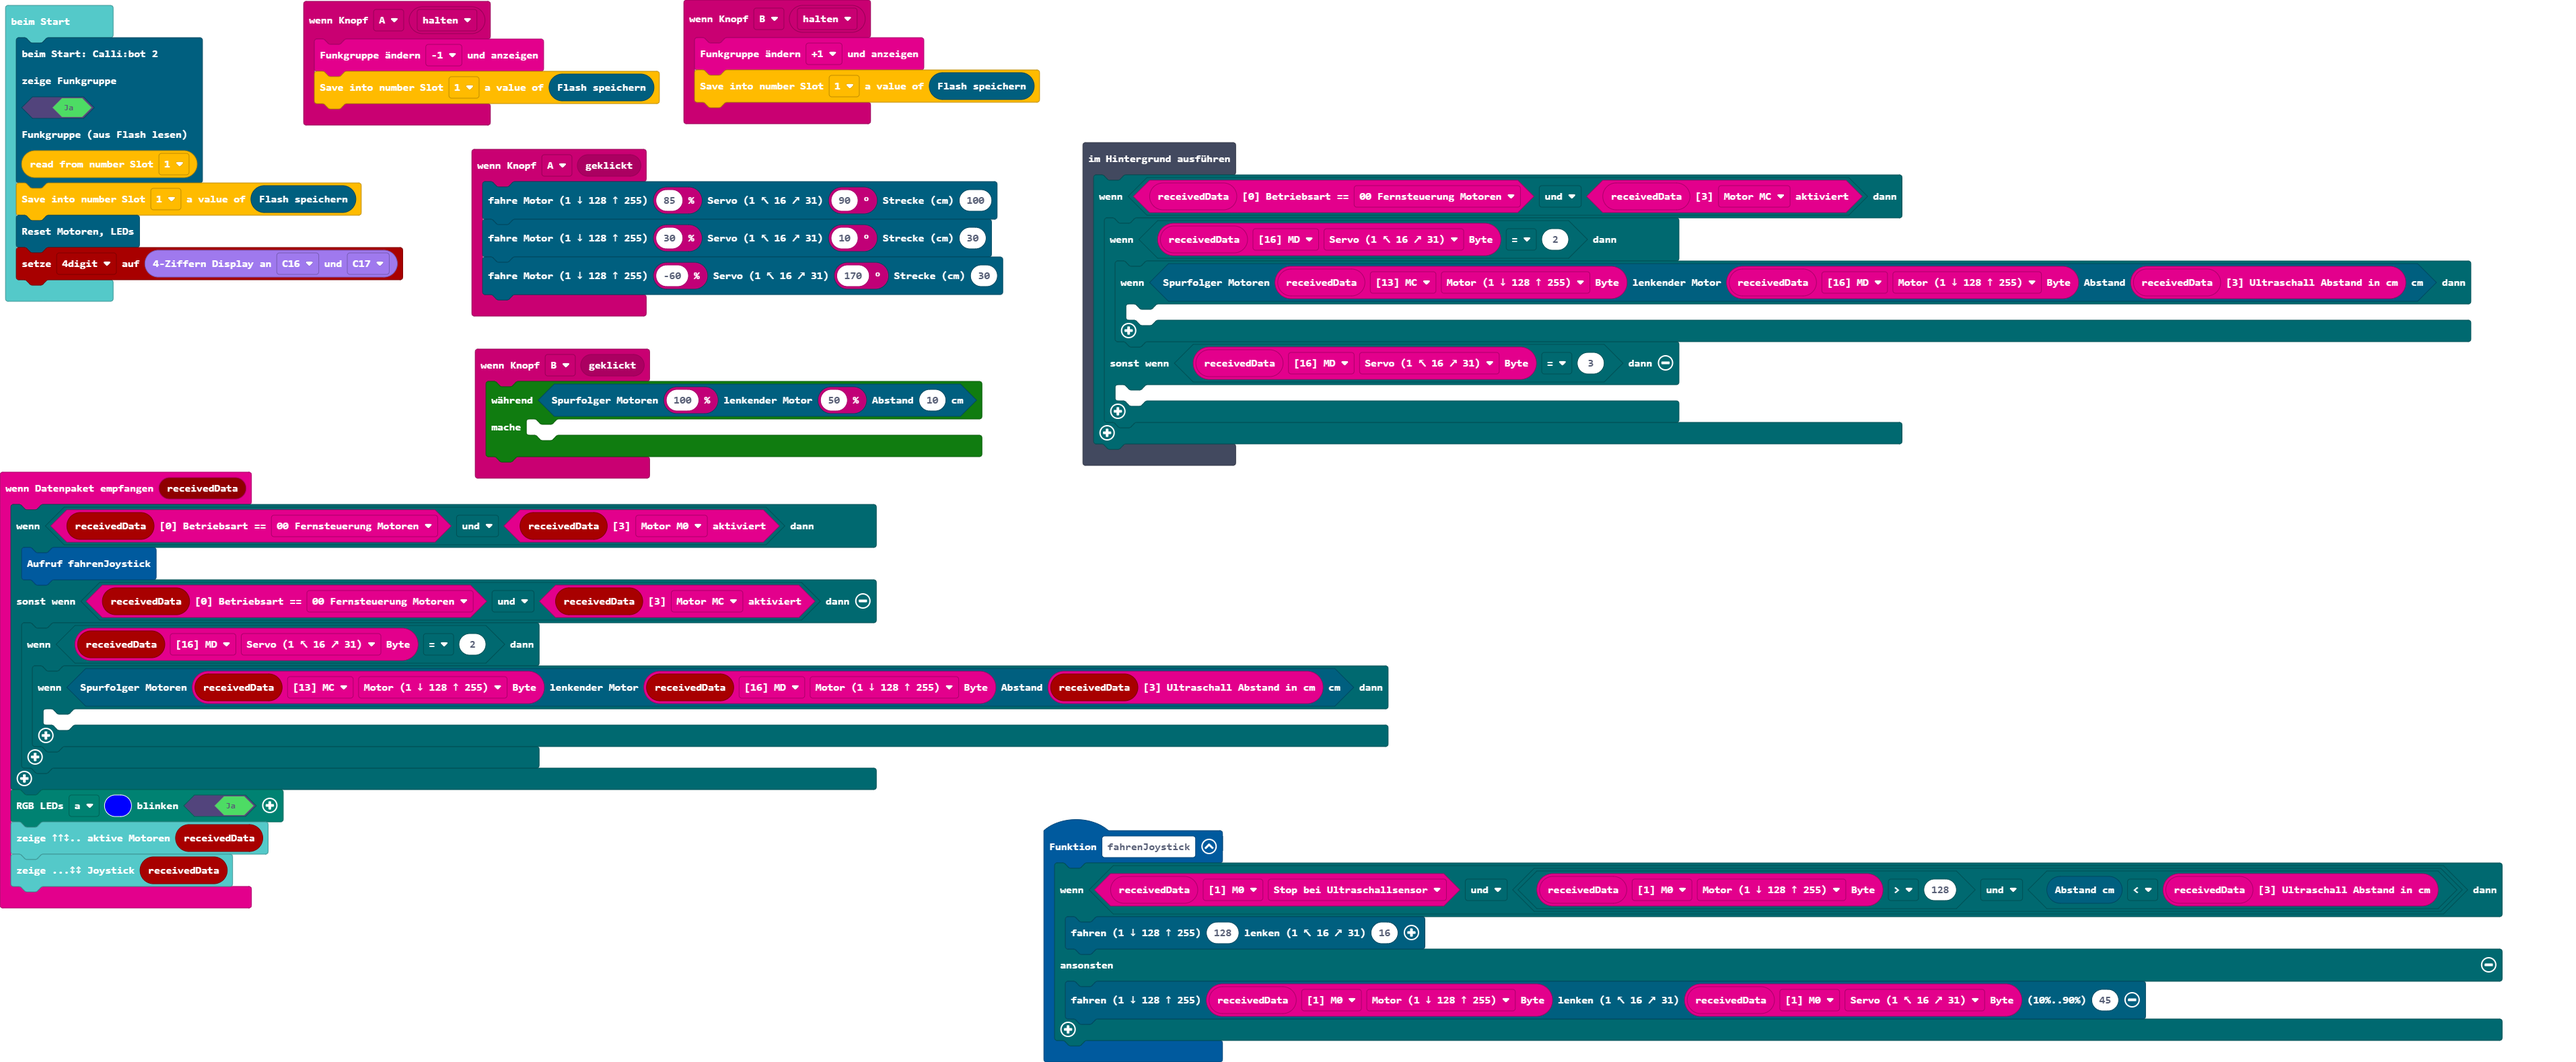
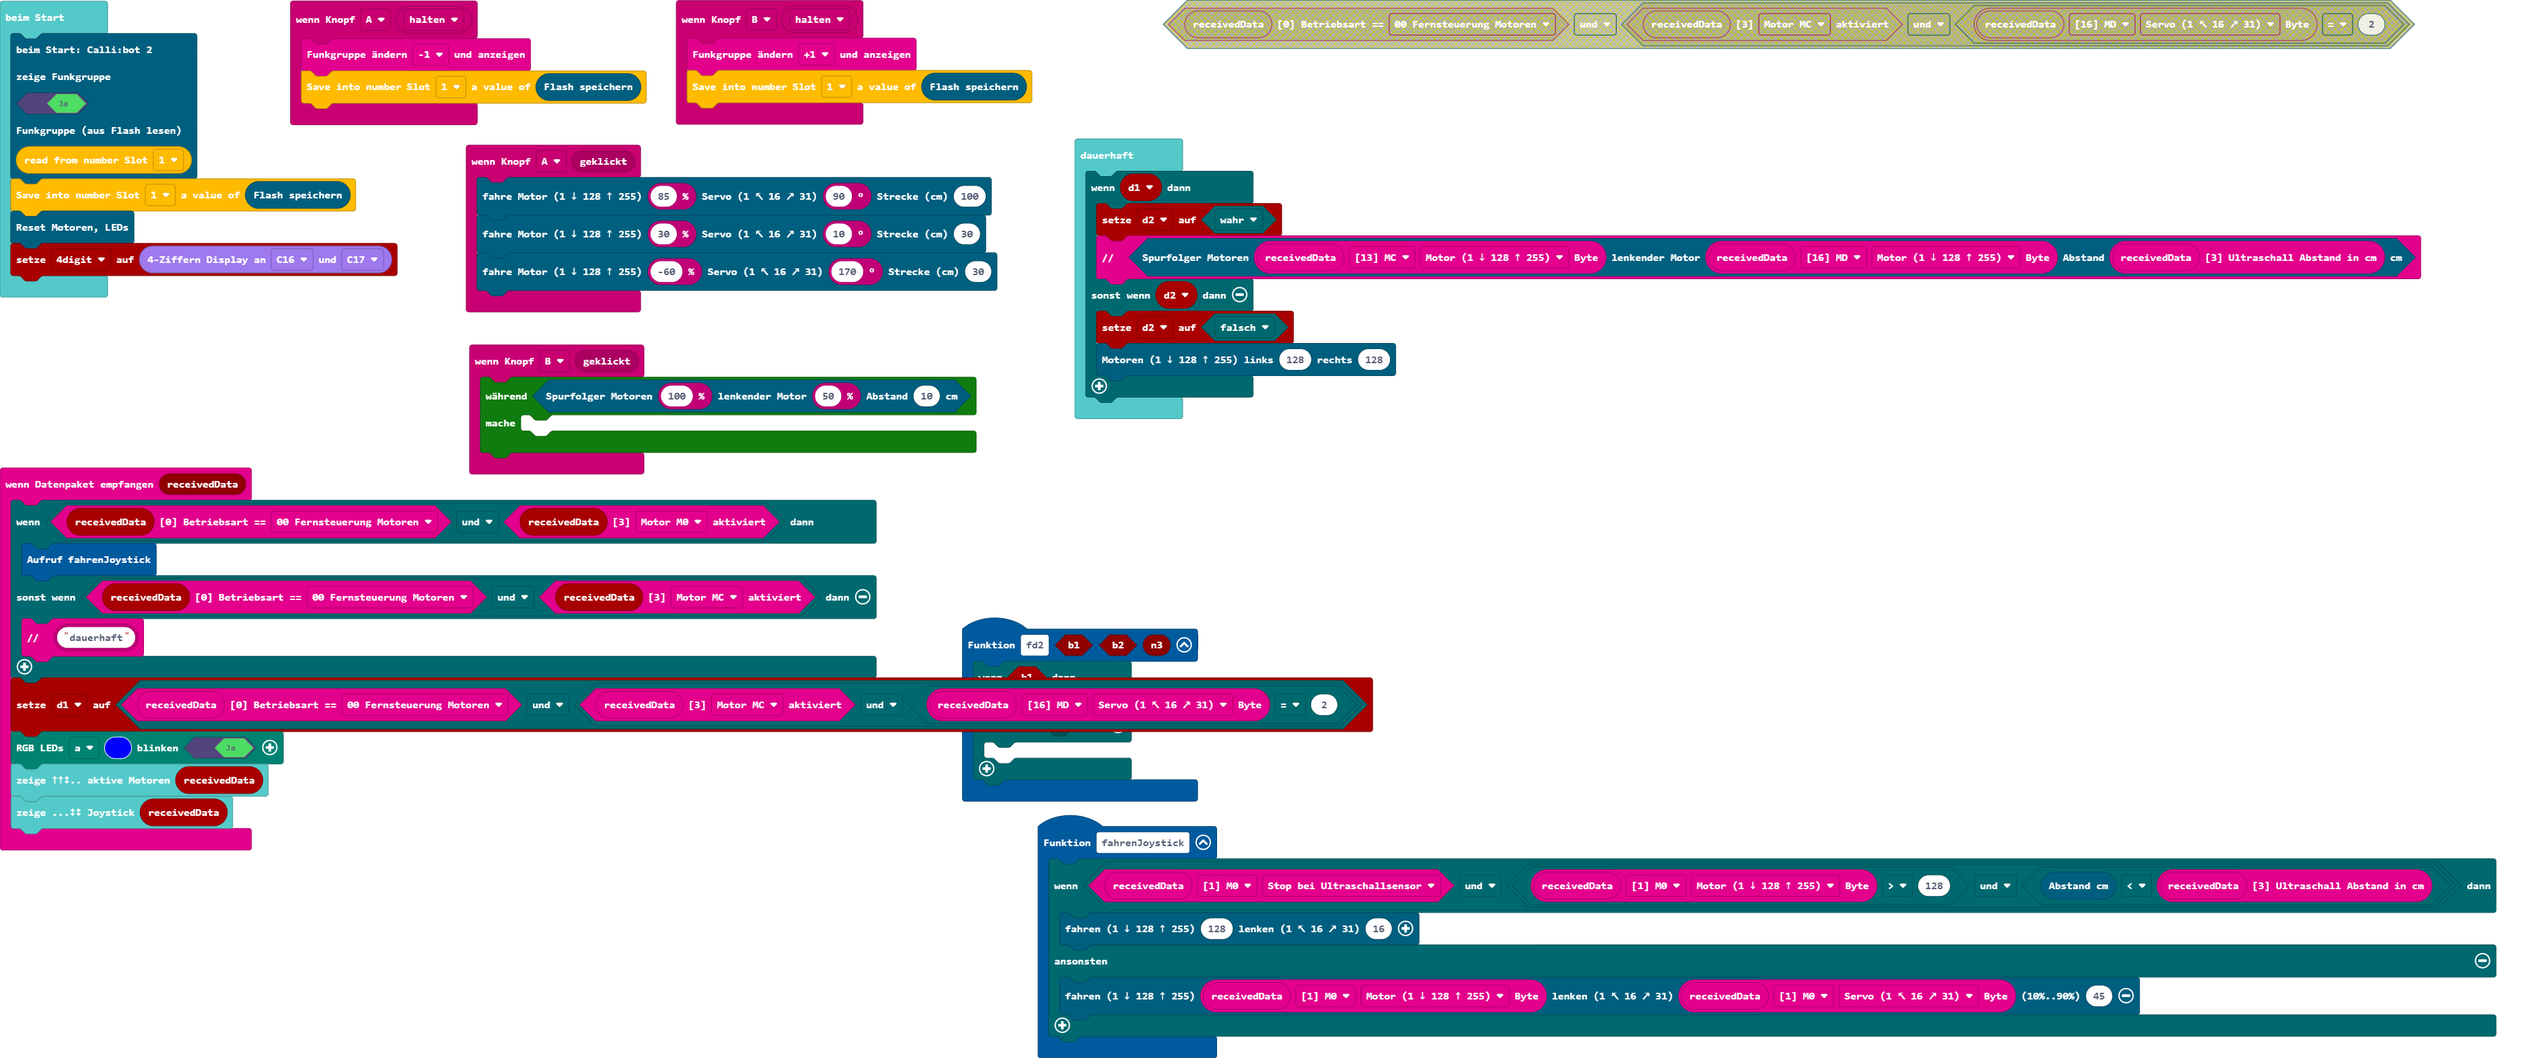
Aktualisiere main.blocks, main.ts

Changed region(s): [[0.0, 0.1246, 0.9952, 1.0], [0.0, 0.0, 0.4354, 0.3115], [0.4354, 0.0, 0.9641, 0.0623]]

diff --git a/main.ts b/main.ts
@@ -1,3 +1,10 @@
+function fd2 (b1: boolean, b2: boolean, n3: number) {
+    if (b1) {
+    	
+    } else if (false) {
+    	
+    }
+}
 input.onButtonEvent(Button.A, input.buttonEventClick(), function () {
     cb2.fahreStrecke(radio.speedPicker(85), radio.protractorPicker(90), 100)
     cb2.fahreStrecke(radio.speedPicker(30), radio.protractorPicker(10), 30)
@@ -19,12 +26,9 @@ radio.onReceivedData(function (receivedData) {
     if (radio.isBetriebsart(receivedData, radio.e0Betriebsart.p0) && radio.getaktiviert(receivedData, radio.e3aktiviert.m0)) {
         fahrenJoystick()
     } else if (radio.isBetriebsart(receivedData, radio.e0Betriebsart.p0) && radio.getaktiviert(receivedData, radio.e3aktiviert.mc)) {
-        if (radio.getByte(receivedData, radio.eBufferPointer.md, radio.eBufferOffset.b1_Servo) == 2) {
-            if (cb2.beispielSpurfolger(radio.getByte(receivedData, radio.eBufferPointer.mc, radio.eBufferOffset.b0_Motor), radio.getByte(receivedData, radio.eBufferPointer.md, radio.eBufferOffset.b0_Motor), radio.getAbstand(receivedData))) {
-            	
-            }
-        }
+        radio.comment(radio.radio_text("dauerhaft"))
     }
+    d1 = radio.isBetriebsart(radio.radio_receivedBuffer19(), radio.e0Betriebsart.p0) && (radio.getaktiviert(radio.radio_receivedBuffer19(), radio.e3aktiviert.mc) && radio.getByte(radio.radio_receivedBuffer19(), radio.eBufferPointer.md, radio.eBufferOffset.b1_Servo) == 2)
     receiver.rgbLEDs(receiver.eRGBled.a, 0x0000ff, true)
     radio.zeige5x5Buffer(receivedData)
     radio.zeige5x5Joystick(receivedData)
@@ -37,6 +41,8 @@ input.onButtonEvent(Button.B, ButtonEvent.Hold, function () {
     radio.setFunkgruppeButton(radio.eFunkgruppeButton.plus)
     storage.putNumber(StorageSlots.s1, cb2.storageBufferGet())
 })
+let d2 = false
+let d1 = false
 cb2.beimStart(
 true,
 storage.getNumber(StorageSlots.s1)
@@ -44,14 +50,12 @@ storage.getNumber(StorageSlots.s1)
 storage.putNumber(StorageSlots.s1, cb2.storageBufferGet())
 cb2.writeReset()
 let _4digit = grove.createDisplay(DigitalPin.C16, DigitalPin.C17)
-control.inBackground(function () {
-    if (radio.isBetriebsart(radio.radio_receivedBuffer19(), radio.e0Betriebsart.p0) && radio.getaktiviert(radio.radio_receivedBuffer19(), radio.e3aktiviert.mc)) {
-        if (radio.getByte(radio.radio_receivedBuffer19(), radio.eBufferPointer.md, radio.eBufferOffset.b1_Servo) == 2) {
-            if (cb2.beispielSpurfolger(radio.getByte(radio.radio_receivedBuffer19(), radio.eBufferPointer.mc, radio.eBufferOffset.b0_Motor), radio.getByte(radio.radio_receivedBuffer19(), radio.eBufferPointer.md, radio.eBufferOffset.b0_Motor), radio.getAbstand(radio.radio_receivedBuffer19()))) {
-            	
-            }
-        } else if (radio.getByte(radio.radio_receivedBuffer19(), radio.eBufferPointer.md, radio.eBufferOffset.b1_Servo) == 3) {
-        	
-        }
+basic.forever(function () {
+    if (d1) {
+        d2 = true
+        radio.comment(cb2.beispielSpurfolger(radio.getByte(radio.radio_receivedBuffer19(), radio.eBufferPointer.mc, radio.eBufferOffset.b0_Motor), radio.getByte(radio.radio_receivedBuffer19(), radio.eBufferPointer.md, radio.eBufferOffset.b0_Motor), radio.getAbstand(radio.radio_receivedBuffer19())))
+    } else if (d2) {
+        d2 = false
+        cb2.writeMotoren128(128, 128)
     }
 })
